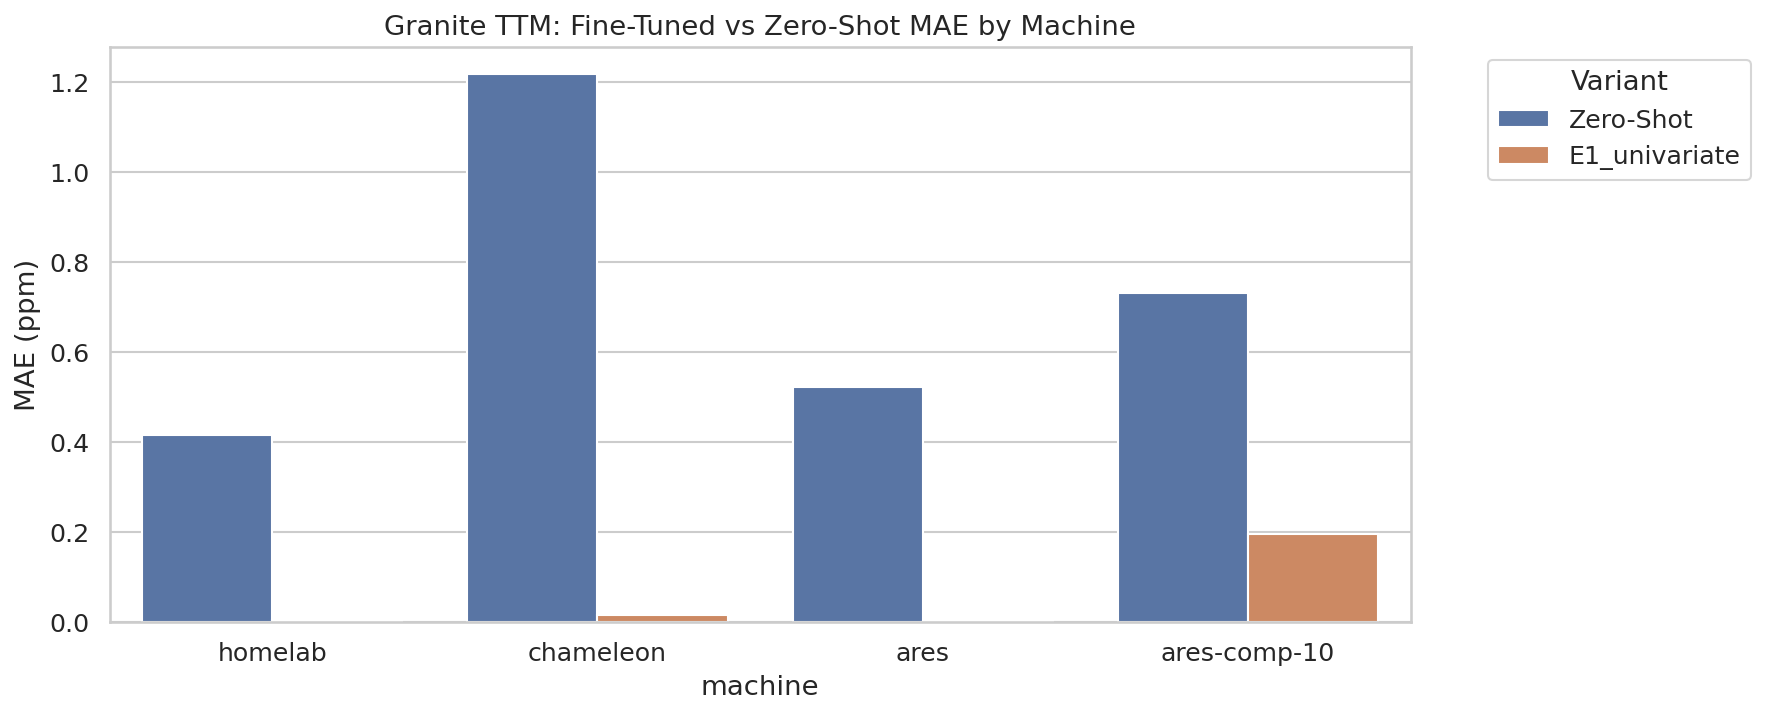
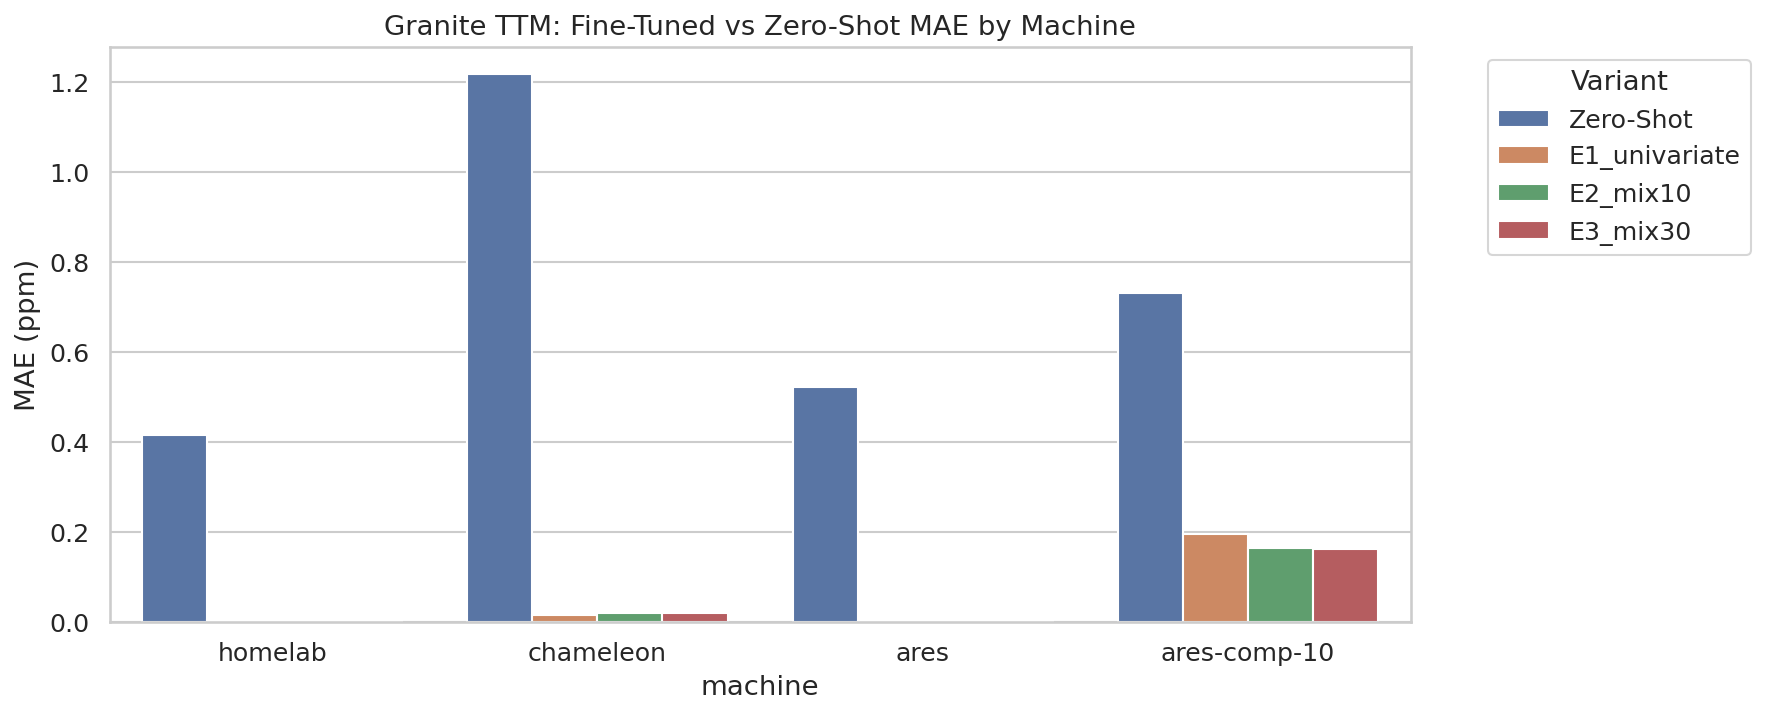
results: notebook 03 granite-ttm-ft figures and combined results (gpu)

diff --git a/tick2/notebooks/output/03/granite_ttm_ft_comparison_table.tex b/tick2/notebooks/output/03/granite_ttm_ft_comparison_table.tex
@@ -8,7 +8,11 @@ Model & Machine & Ctx & Hz & Cov & MAE & RMSE & Time (ms) \\
 \midrule
 granite-ttm-ft-E1_univariate & ares & 512 & 60 & False & 0.0008 & 0.0012 & 4.9 \\
 granite-ttm & ares & 512 & 60 & False & 1.3208 & 1.4546 & 4.8 \\
+granite-ttm-ft-E2_mix10 & ares & 512 & 60 & True & 0.0015 & 0.0018 & 23.6 \\
+granite-ttm-ft-E3_mix30 & ares & 512 & 60 & True & 0.0013 & 0.0016 & 22.9 \\
 granite-ttm-ft-E1_univariate & ares & 512 & 96 & False & 0.0010 & 0.0014 & 5.3 \\
+granite-ttm-ft-E2_mix10 & ares & 512 & 96 & True & 0.0016 & 0.0019 & 17.4 \\
+granite-ttm-ft-E3_mix30 & ares & 512 & 96 & True & 0.0016 & 0.0019 & 26.1 \\
 granite-ttm & ares & 512 & 120 & False & 2.0601 & 2.2598 & 5.2 \\
 granite-ttm & ares & 512 & 300 & False & 2.8246 & 2.9518 & 5.5 \\
 granite-ttm & ares & 1024 & 60 & False & 0.0041 & 0.0044 & 5.1 \\
@@ -22,7 +26,11 @@ granite-ttm & ares & 3600 & 120 & False & 0.0052 & 0.0056 & 6.9 \\
 granite-ttm & ares & 3600 & 300 & False & 0.0055 & 0.0057 & 7.6 \\
 granite-ttm-ft-E1_univariate & ares-comp-10 & 512 & 60 & False & 0.1712 & 0.2702 & 4.9 \\
 granite-ttm & ares-comp-10 & 512 & 60 & False & 1.5419 & 1.7404 & 7.7 \\
+granite-ttm-ft-E2_mix10 & ares-comp-10 & 512 & 60 & True & 0.1357 & 0.2288 & 13.1 \\
+granite-ttm-ft-E3_mix30 & ares-comp-10 & 512 & 60 & True & 0.1336 & 0.2268 & 24.6 \\
 granite-ttm-ft-E1_univariate & ares-comp-10 & 512 & 96 & False & 0.2198 & 0.3479 & 4.8 \\
+granite-ttm-ft-E2_mix10 & ares-comp-10 & 512 & 96 & True & 0.1943 & 0.3188 & 15.6 \\
+granite-ttm-ft-E3_mix30 & ares-comp-10 & 512 & 96 & True & 0.1899 & 0.3153 & 18.4 \\
 granite-ttm & ares-comp-10 & 512 & 120 & False & 2.7306 & 3.0253 & 7.8 \\
 granite-ttm & ares-comp-10 & 512 & 300 & False & 3.6703 & 3.8506 & 5.7 \\
 granite-ttm & ares-comp-10 & 1024 & 60 & False & 0.0549 & 0.0878 & 4.9 \\
@@ -36,7 +44,11 @@ granite-ttm & ares-comp-10 & 3600 & 120 & False & 0.0848 & 0.2146 & 5.5 \\
 granite-ttm & ares-comp-10 & 3600 & 300 & False & 0.0907 & 0.1716 & 4.9 \\
 granite-ttm-ft-E1_univariate & chameleon & 512 & 60 & False & 0.0157 & 0.0175 & 4.9 \\
 granite-ttm & chameleon & 512 & 60 & False & 2.8575 & 3.1624 & 4.7 \\
+granite-ttm-ft-E2_mix10 & chameleon & 512 & 60 & True & 0.0195 & 0.0202 & 18.9 \\
+granite-ttm-ft-E3_mix30 & chameleon & 512 & 60 & True & 0.0187 & 0.0196 & 25.4 \\
 granite-ttm-ft-E1_univariate & chameleon & 512 & 96 & False & 0.0149 & 0.0167 & 5.1 \\
+granite-ttm-ft-E2_mix10 & chameleon & 512 & 96 & True & 0.0197 & 0.0203 & 21.3 \\
+granite-ttm-ft-E3_mix30 & chameleon & 512 & 96 & True & 0.0192 & 0.0200 & 24.1 \\
 granite-ttm & chameleon & 512 & 120 & False & 4.4940 & 4.9458 & 5.0 \\
 granite-ttm & chameleon & 512 & 300 & False & 6.1458 & 6.4234 & 4.9 \\
 granite-ttm & chameleon & 1024 & 60 & False & 0.0580 & 0.0715 & 4.8 \\
@@ -50,7 +62,11 @@ granite-ttm & chameleon & 3600 & 120 & False & 0.2007 & 0.3517 & 5.6 \\
 granite-ttm & chameleon & 3600 & 300 & False & 0.2567 & 0.4327 & 4.8 \\
 granite-ttm-ft-E1_univariate & homelab & 512 & 60 & False & 0.0022 & 0.0026 & 6.3 \\
 granite-ttm & homelab & 512 & 60 & False & 0.9824 & 1.1072 & 26.3 \\
+granite-ttm-ft-E2_mix10 & homelab & 512 & 60 & True & 0.0020 & 0.0021 & 26.0 \\
+granite-ttm-ft-E3_mix30 & homelab & 512 & 60 & True & 0.0024 & 0.0024 & 13.1 \\
 granite-ttm-ft-E1_univariate & homelab & 512 & 96 & False & 0.0079 & 0.0128 & 4.9 \\
+granite-ttm-ft-E2_mix10 & homelab & 512 & 96 & True & 0.0060 & 0.0106 & 25.3 \\
+granite-ttm-ft-E3_mix30 & homelab & 512 & 96 & True & 0.0064 & 0.0109 & 17.0 \\
 granite-ttm & homelab & 512 & 120 & False & 1.6310 & 1.8076 & 4.8 \\
 granite-ttm & homelab & 512 & 300 & False & 2.2022 & 2.3053 & 4.9 \\
 granite-ttm & homelab & 1024 & 60 & False & 0.0076 & 0.0080 & 5.2 \\
